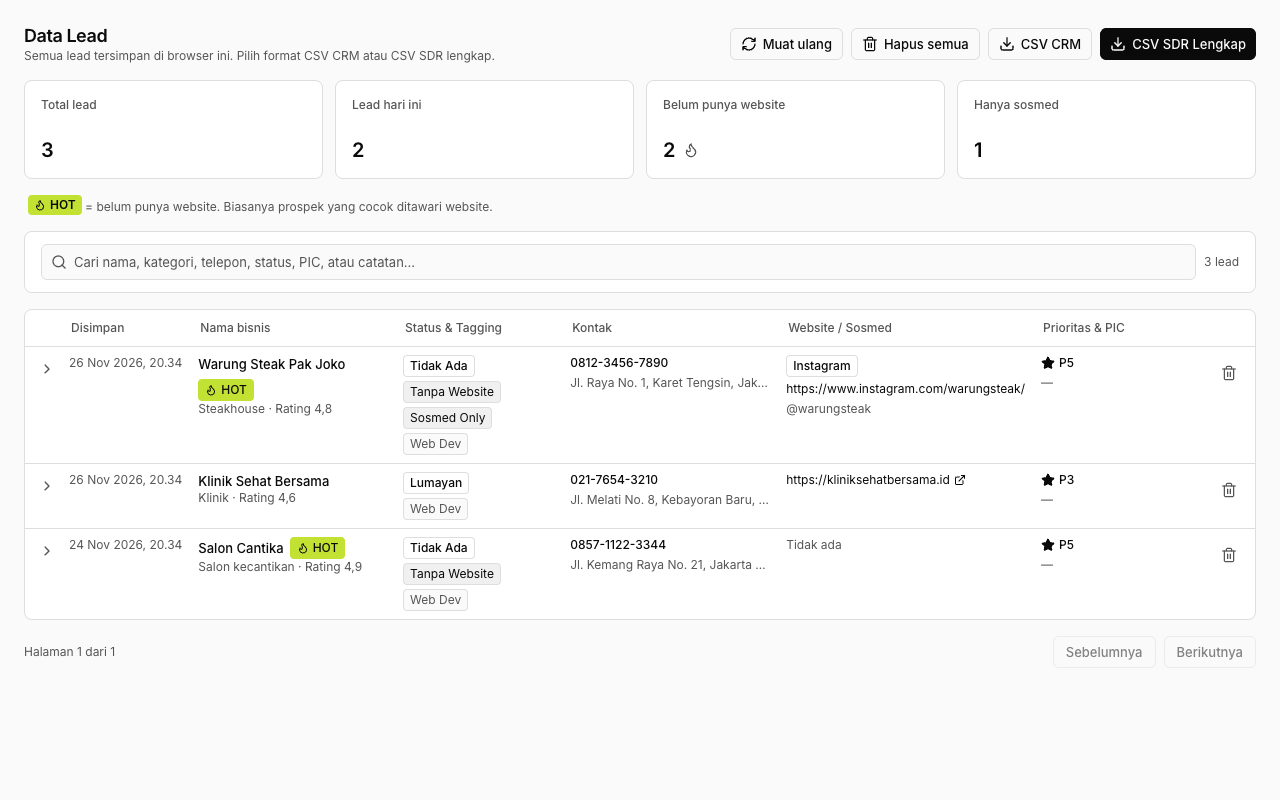
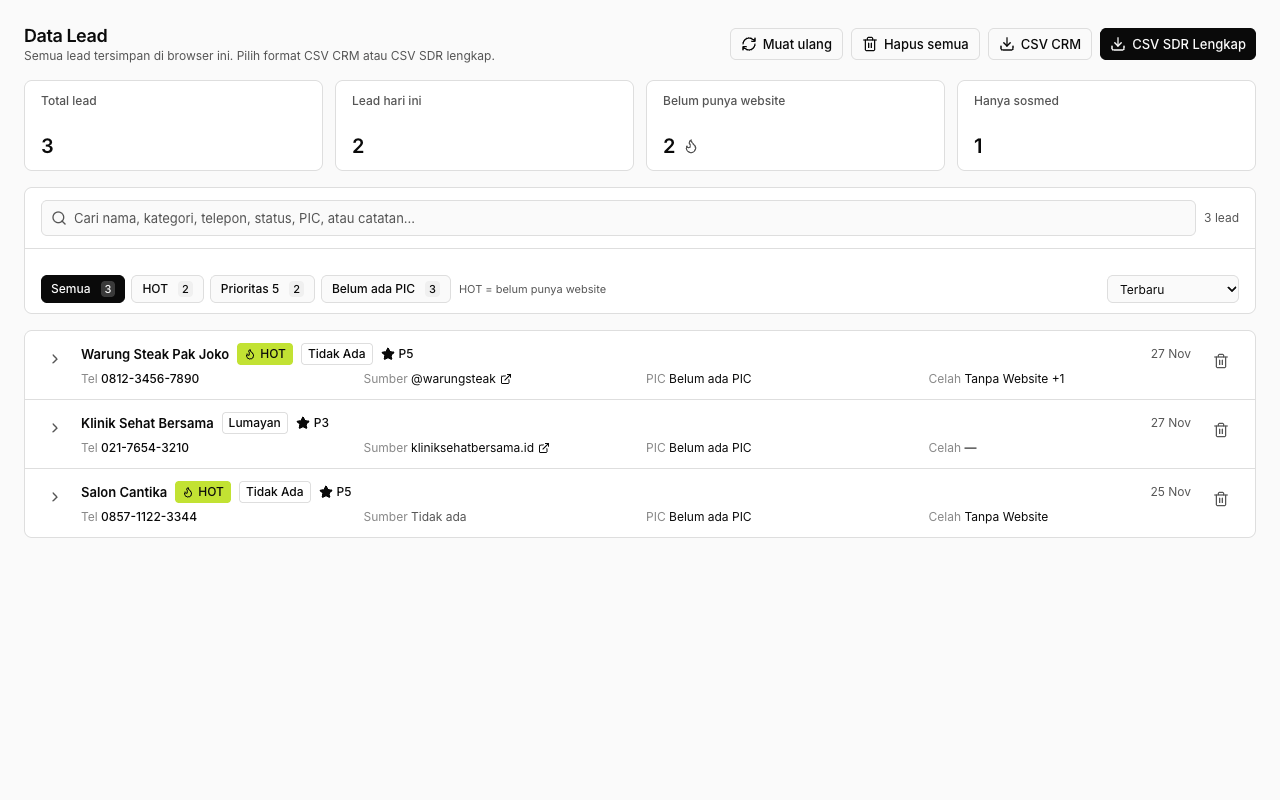
chore(release): 1.0.8 with redesigned dashboard

diff --git a/apps/extension/wxt.config.ts b/apps/extension/wxt.config.ts
@@ -10,7 +10,7 @@ export default defineConfig({
     name: "SDR Lead Capture",
     description:
       "Capture B2B leads from Google Maps and export them to CSV. Fully offline, no data leaves your browser.",
-    version: "1.0.7",
+    version: "1.0.8",
     icons: {
       "16": "icon16.png",
       "32": "icon32.png",

diff --git a/CATATAN-RILIS.md b/CATATAN-RILIS.md
@@ -5,6 +5,36 @@ Detail teknis ada di [`HANDOVER.txt`](HANDOVER.txt).
 
 ---
 
+## 1.0.8 — 27 November 2026
+
+**Fokus: halaman Data Lead lebih rapi dan mudah dipakai.**
+
+Yang berubah:
+
+- **Daftar lead tidak lagi terpotong atau berdesakan.** Layout baru: nama,
+  status, dan prioritas di baris atas; kontak, sumber, PIC, dan celah digital di
+  baris kedua; catatan sales satu baris di bawahnya.
+- **Detail lengkap ada di panel yang bisa dibuka** per lead: alamat, WhatsApp,
+  website/sosmed, semua celah digital dan solusi, PIC, catatan, tanggal simpan,
+  dan link Google Maps.
+- **Filter cepat:** Semua, HOT, Prioritas 5, dan Belum ada PIC.
+- **Urutkan lead:** Terbaru, Prioritas tertinggi, atau Nama A–Z.
+- **Lebih ringkas di layar kecil:** kartu statistik jadi 2×2 dan daftar tetap
+  terbaca tanpa geser ke samping.
+- **Pencarian tetap mencakup** nama, kategori, telepon, status, PIC, dan catatan.
+
+Tidak ada perubahan format data atau CSV. Data lama tetap aman.
+
+**Cara update dari 1.0.7:**
+
+1. Download `sdr-lead-capture-1.0.8-chrome.zip`.
+2. Extract ke folder baru (jangan timpa folder lama).
+3. Buka `chrome://extensions` → hapus extension lama → **Load unpacked** →
+   pilih folder baru.
+4. Data lama tetap ada.
+
+---
+
 ## 1.0.7 — 26 November 2026
 
 **Fokus: perbaikan mode Ambil Semua untuk bisnis yang pernah diklik.**

diff --git a/README.md b/README.md
@@ -46,9 +46,9 @@ Sisanya dibiarkan kosong karena memang tidak ada di Google Maps.
 
 Saat ini extension dipasang manual (belum di Chrome Web Store).
 
-1. Minta file **`sdr-lead-capture-1.0.7-chrome.zip`** ke yang mengirim ini,
+1. Minta file **`sdr-lead-capture-1.0.8-chrome.zip`** ke yang mengirim ini,
    atau download dari
-   [GitHub Releases](https://github.com/Skalar-Solutions/sdr-lead-capture/releases/tag/v1.0.7).
+   [GitHub Releases](https://github.com/Skalar-Solutions/sdr-lead-capture/releases/tag/v1.0.8).
 2. **Extract** file zip itu ke folder yang gampang diingat, misalnya
    `Dokumen/SDR Lead Capture`.
    Penting: jangan hapus folder ini setelah dipasang.
@@ -164,7 +164,10 @@ Di halaman itu kamu bisa:
 
 - melihat semua lead yang sudah disimpan
 - mencari berdasarkan nama, alamat, telepon, status website, PIC, atau catatan
-- membuka detail lead untuk melihat celah digital, solusi, dan catatan sales
+- memfilter cepat: **HOT**, **Prioritas 5**, atau **Belum ada PIC**
+- mengurutkan: **Terbaru**, **Prioritas tertinggi**, atau **Nama A–Z**
+- membuka detail lead untuk melihat alamat, WhatsApp, website, semua celah
+  digital/solusi, PIC, catatan sales, dan link Google Maps
 - menghapus satu lead
 - menghapus semua data
 - download **CSV CRM** atau **CSV SDR Lengkap**

diff --git a/PANDUAN-SDR.md b/PANDUAN-SDR.md
@@ -15,7 +15,7 @@ Google Sheets.
 
 > Sudah dipasang oleh admin? Lewati ke bagian **2. Ambil satu bisnis**.
 
-1. Minta file **`sdr-lead-capture-1.0.7-chrome.zip`** ke admin.
+1. Minta file **`sdr-lead-capture-1.0.8-chrome.zip`** ke admin.
 2. **Extract** file itu ke folder yang mudah diingat, misalnya
    `Dokumen/SDR Lead Capture`.
    **Jangan hapus folder ini** setelah dipasang.
@@ -109,6 +109,18 @@ WhatsApp, dan Link Google Maps. Pakai file ini untuk evaluasi tim atau
 follow-up.
 
 ![Contoh halaman Data Lead](store/screenshot-1-dashboard.png)
+
+### Cari dan filter lead
+
+Di halaman **Lihat Data**:
+
+- Ketik nama, kategori, telepon, atau catatan di kolom pencarian.
+- Klik **HOT** untuk hanya melihat lead yang belum punya website.
+- Klik **Prioritas 5** untuk melihat lead paling potensial.
+- Klik **Belum ada PIC** untuk melihat lead yang belum dipegang.
+- Ubah urutan lewat menu **Terbaru** (bisa juga Prioritas tertinggi atau Nama A–Z).
+- Klik tanda **>** di kiri untuk membuka detail lengkap: alamat, WhatsApp,
+  website/sosmed, semua celah digital, solusi, PIC, catatan, dan link Maps.
 
 ---
 

diff --git a/store/listing.md b/store/listing.md
@@ -31,7 +31,7 @@ Fitur:
 - Evaluasi & tagging SDR: status website, celah digital, peluang solusi,
   prioritas 1–5, PIC, dan catatan sales.
 - Simpan ke penyimpanan lokal Chrome dengan deteksi duplikat otomatis.
-- Dashboard Data Lead untuk mencari, memeriksa, menghapus, dan mengekspor data.
+- Dashboard Data Lead dengan filter cepat (HOT / Prioritas 5 / Belum ada PIC), pencarian, urutan, detail per lead, dan hapus data.
 - Dua format ekspor: CSV CRM 13 kolom dan CSV SDR Lengkap 21 kolom.
 - Tandai lead tanpa website sebagai HOT.
 - Bekerja offline setelah extension terpasang.
@@ -107,7 +107,7 @@ https://github.com/Skalar-Solutions/sdr-lead-capture/issues
 ## Submission checklist
 
 - [ ] Aktifkan GitHub Pages dan buka URL privacy policy.
-- [ ] Upload `release/sdr-lead-capture-1.0.7-chrome.zip`.
+- [ ] Upload `release/sdr-lead-capture-1.0.8-chrome.zip`.
 - [ ] Isi listing dengan teks di atas.
 - [ ] Upload ketiga aset di `store/`.
 - [ ] Pilih kategori Productivity, bahasa Indonesian.
